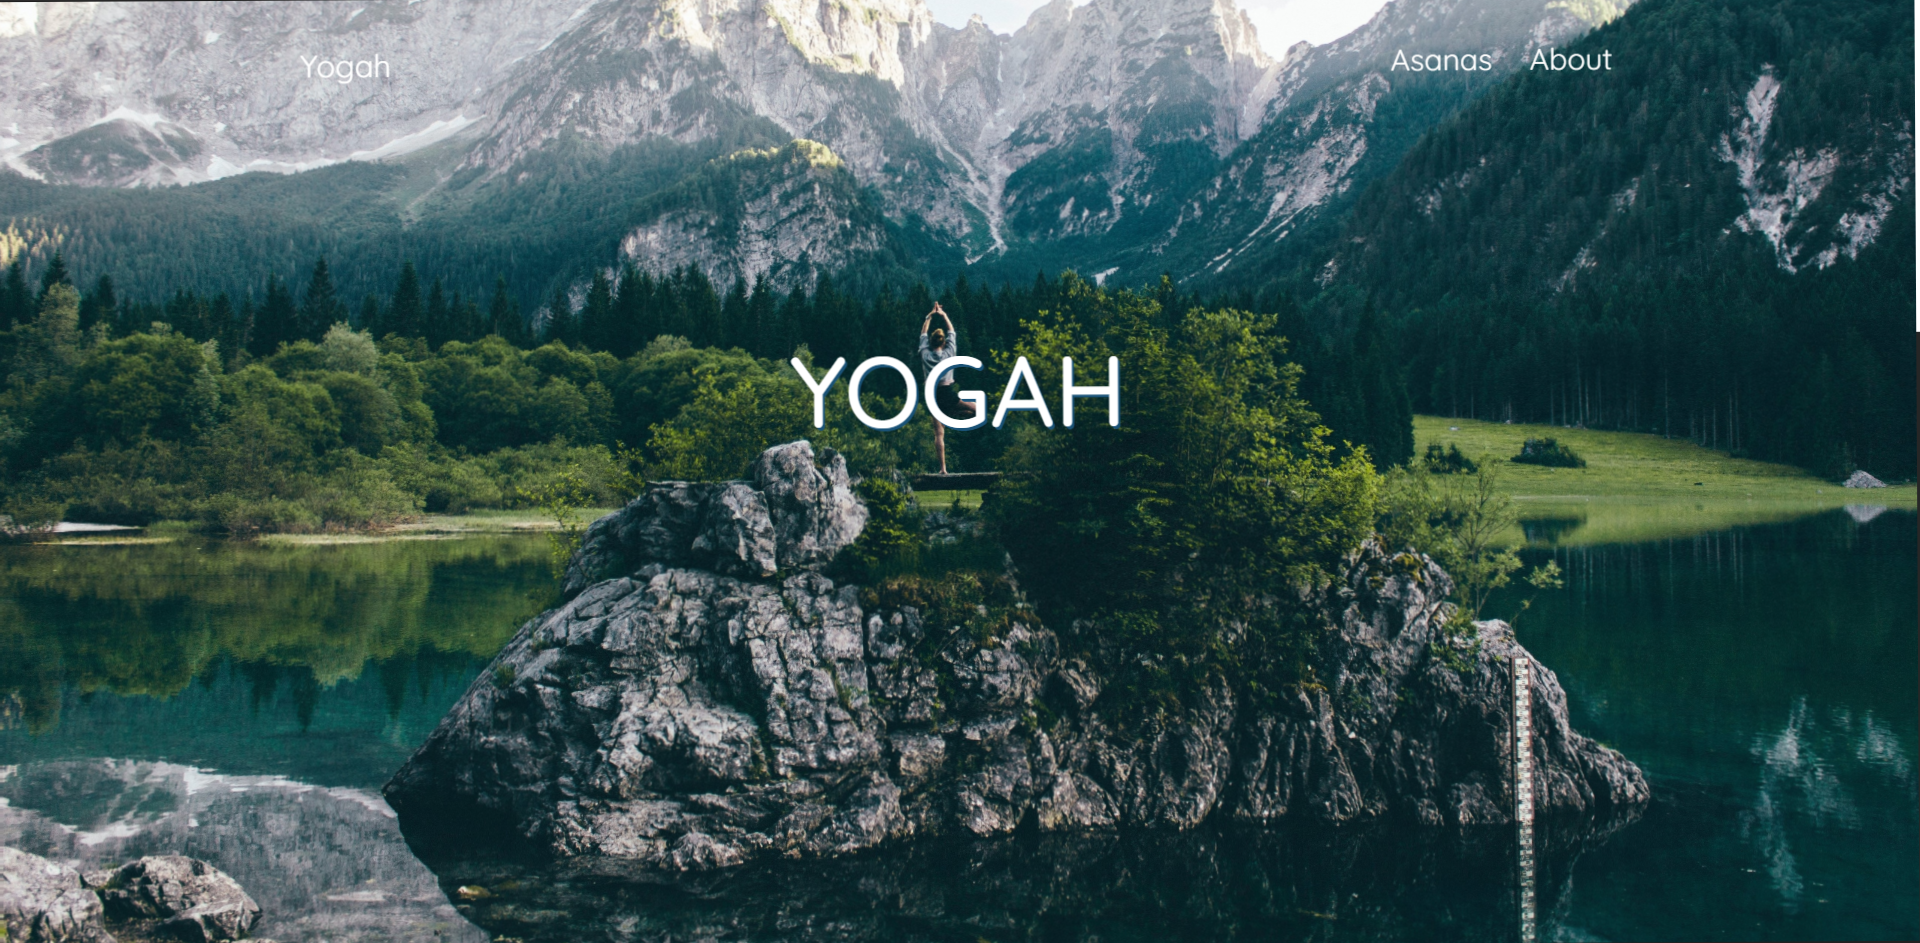
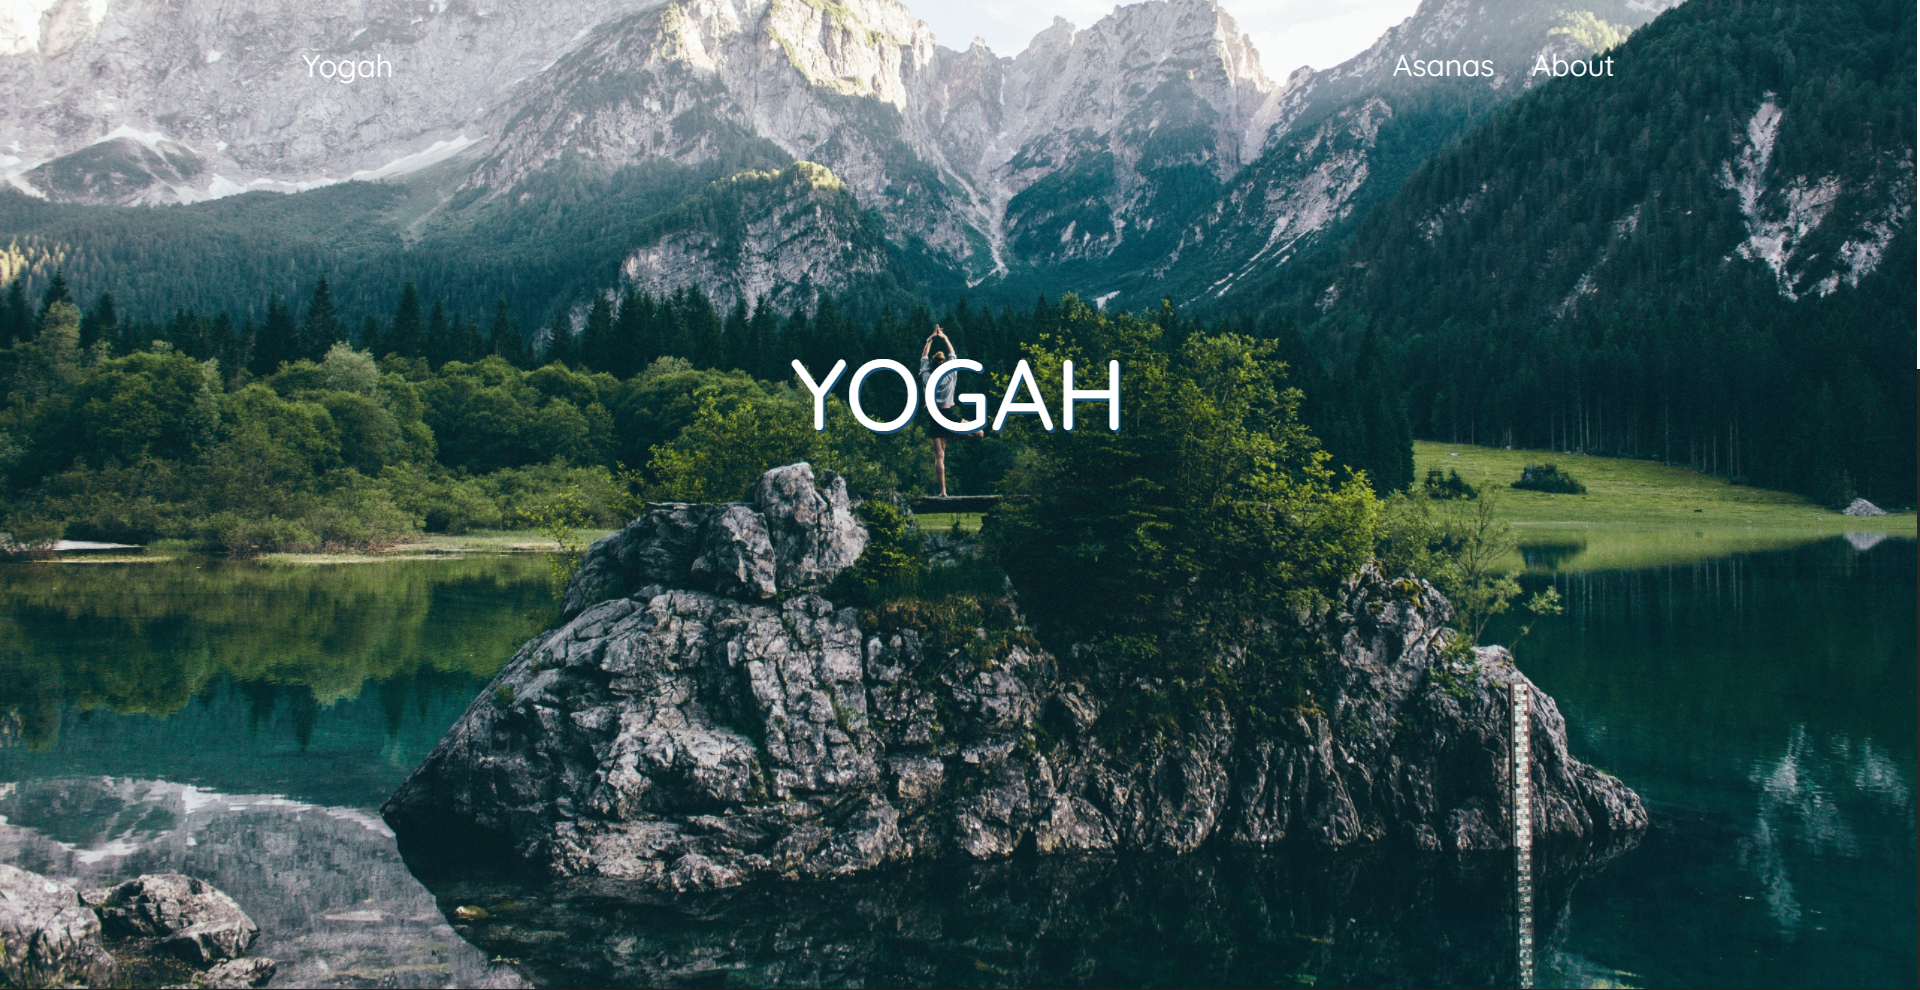
image refining

diff --git a/index.html b/index.html
@@ -51,7 +51,7 @@
       <div class="lineb">
         
         <div class="yogahdiv">
-        <h3><a target="_blank" href="https://yogah.github.io" class="yogahTrigger">Yogah // Website</a><img src="images/yogah1.png" class="hidden img1"><img src="images/yogah2.png" class="hidden img2"></h3>      
+        <h3><a target="_blank" href="https://yogah.github.io" class="yogahTrigger">Yogah // Website</a><img src="images/yogah1.png" class="hidden img1"><img src="images/yogah3.png" class="hidden img2"></h3>      
         </div>
 
         <h3><a href="RomanNum/index.html" class="yogahTrigger">Roman Numeral Converter // JavaScript<br>Demo</a><img src="images/roman1.png" class="hidden img1"></h3>
